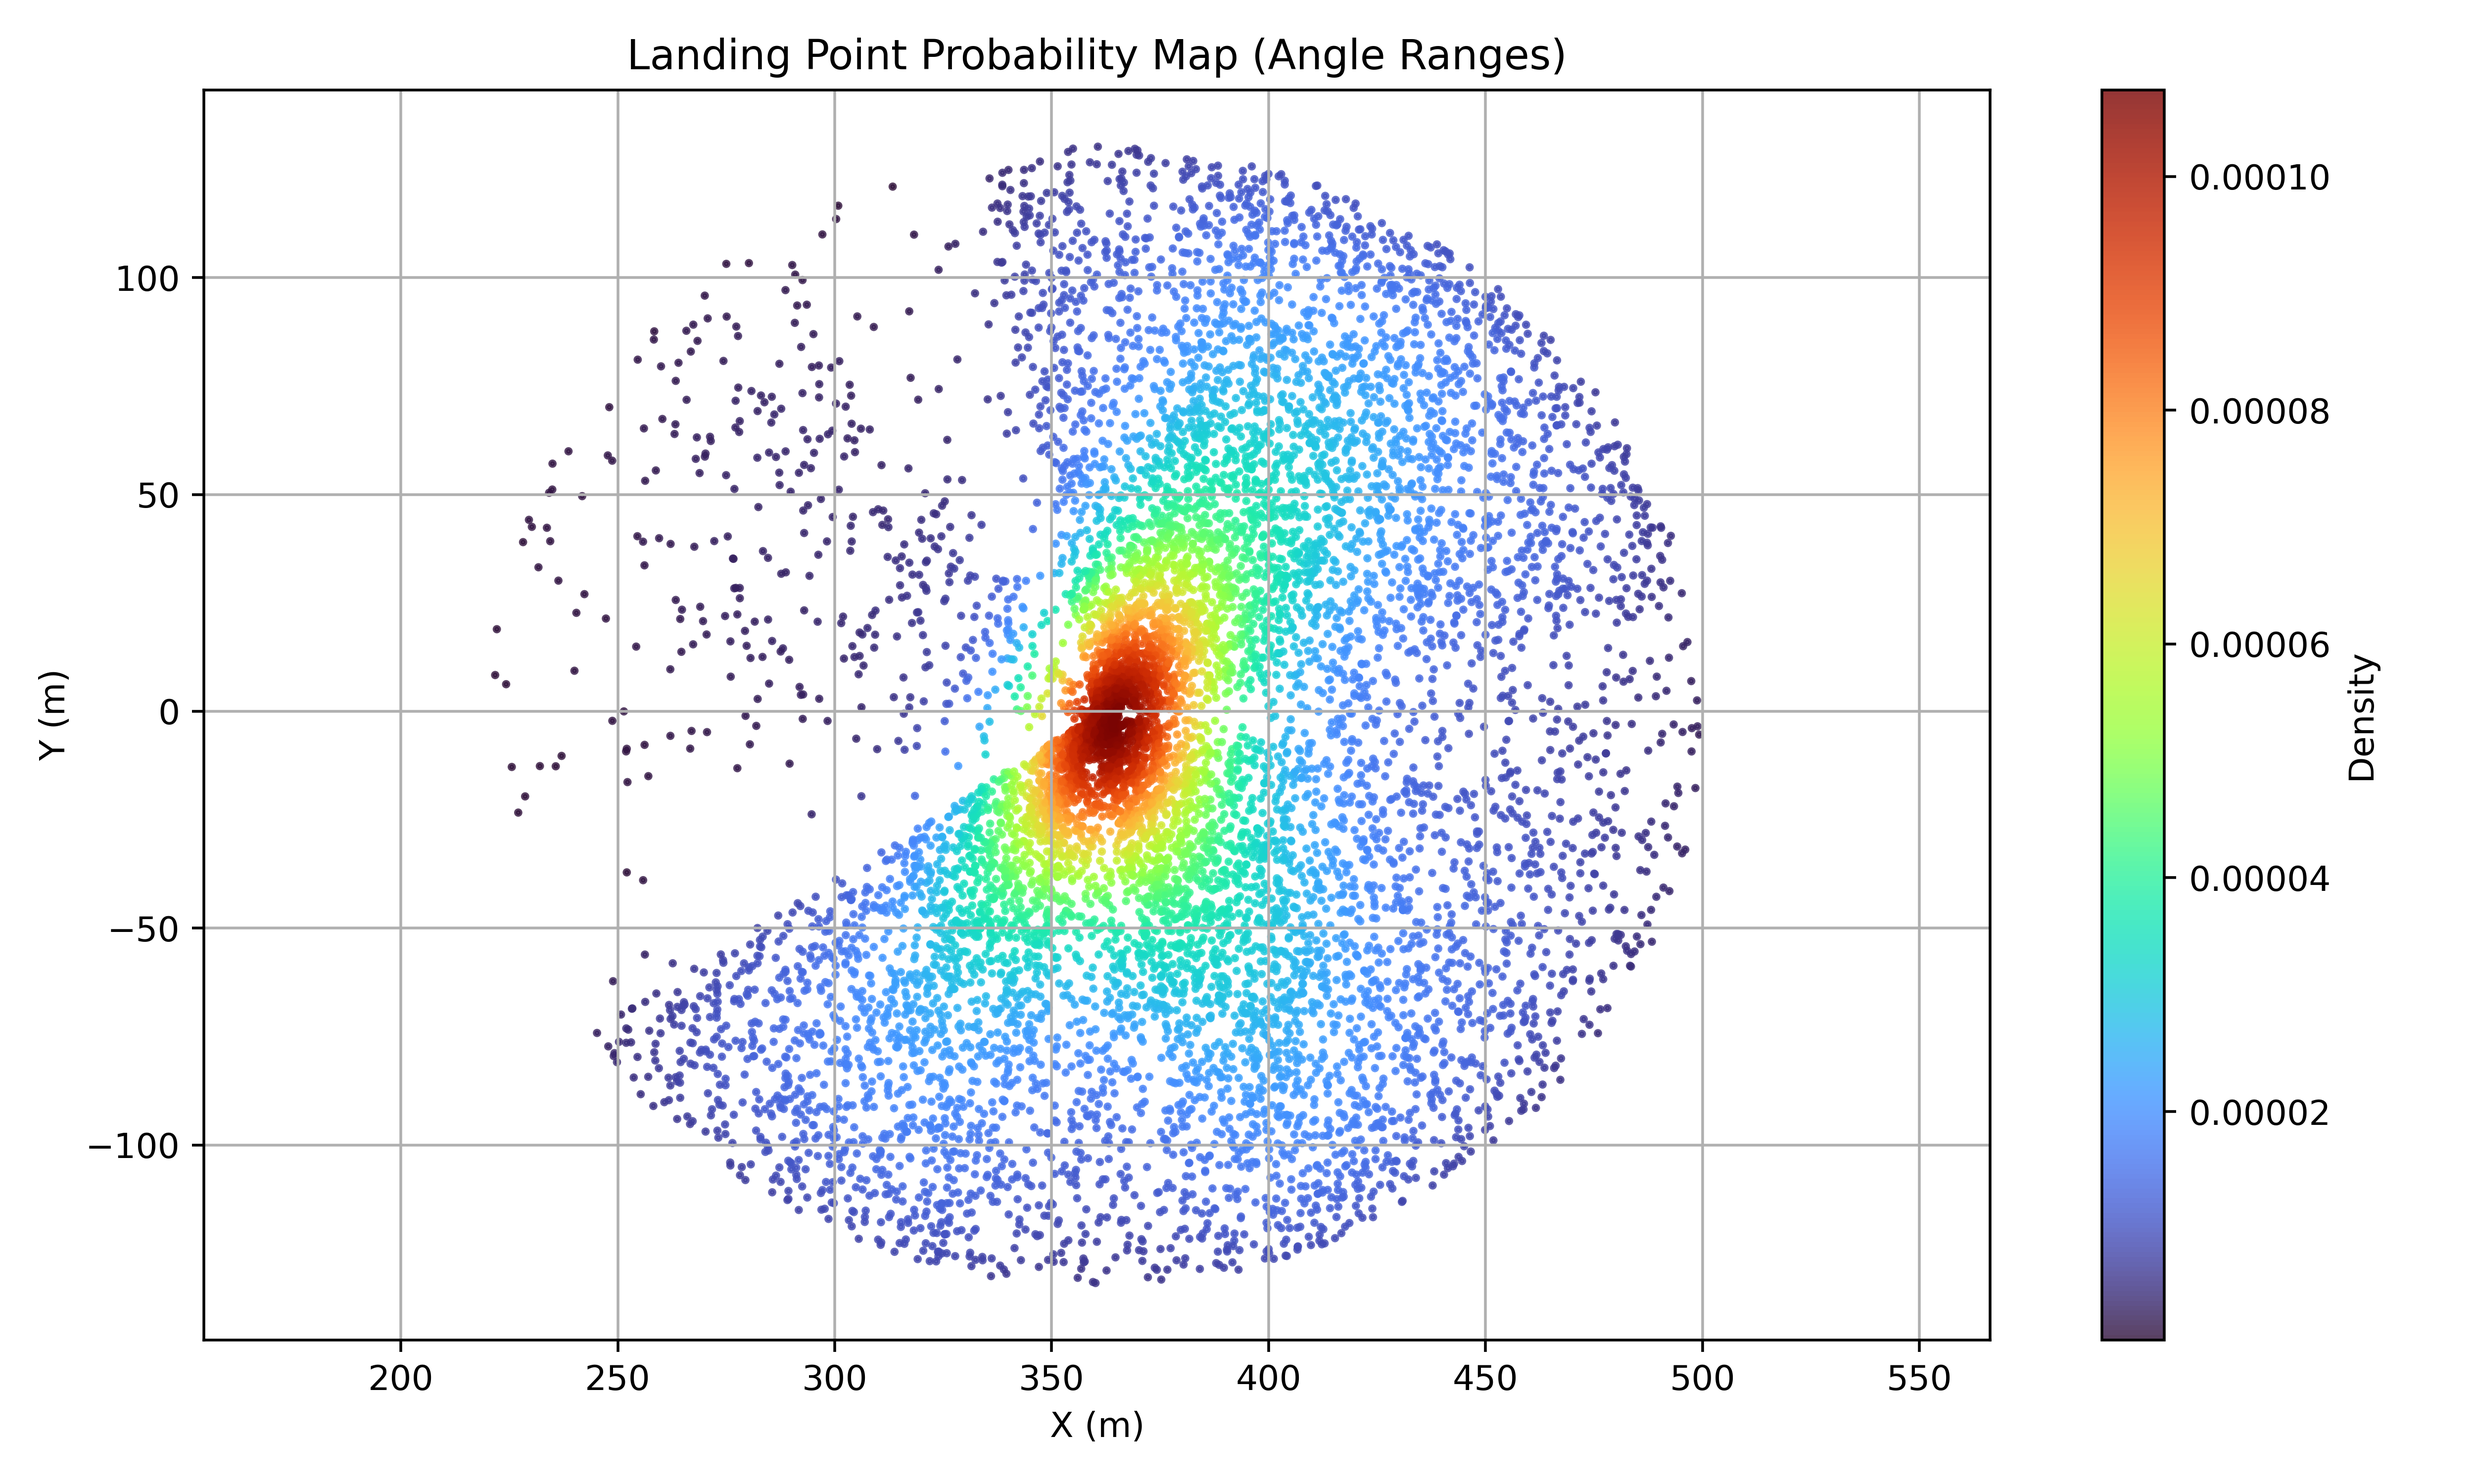
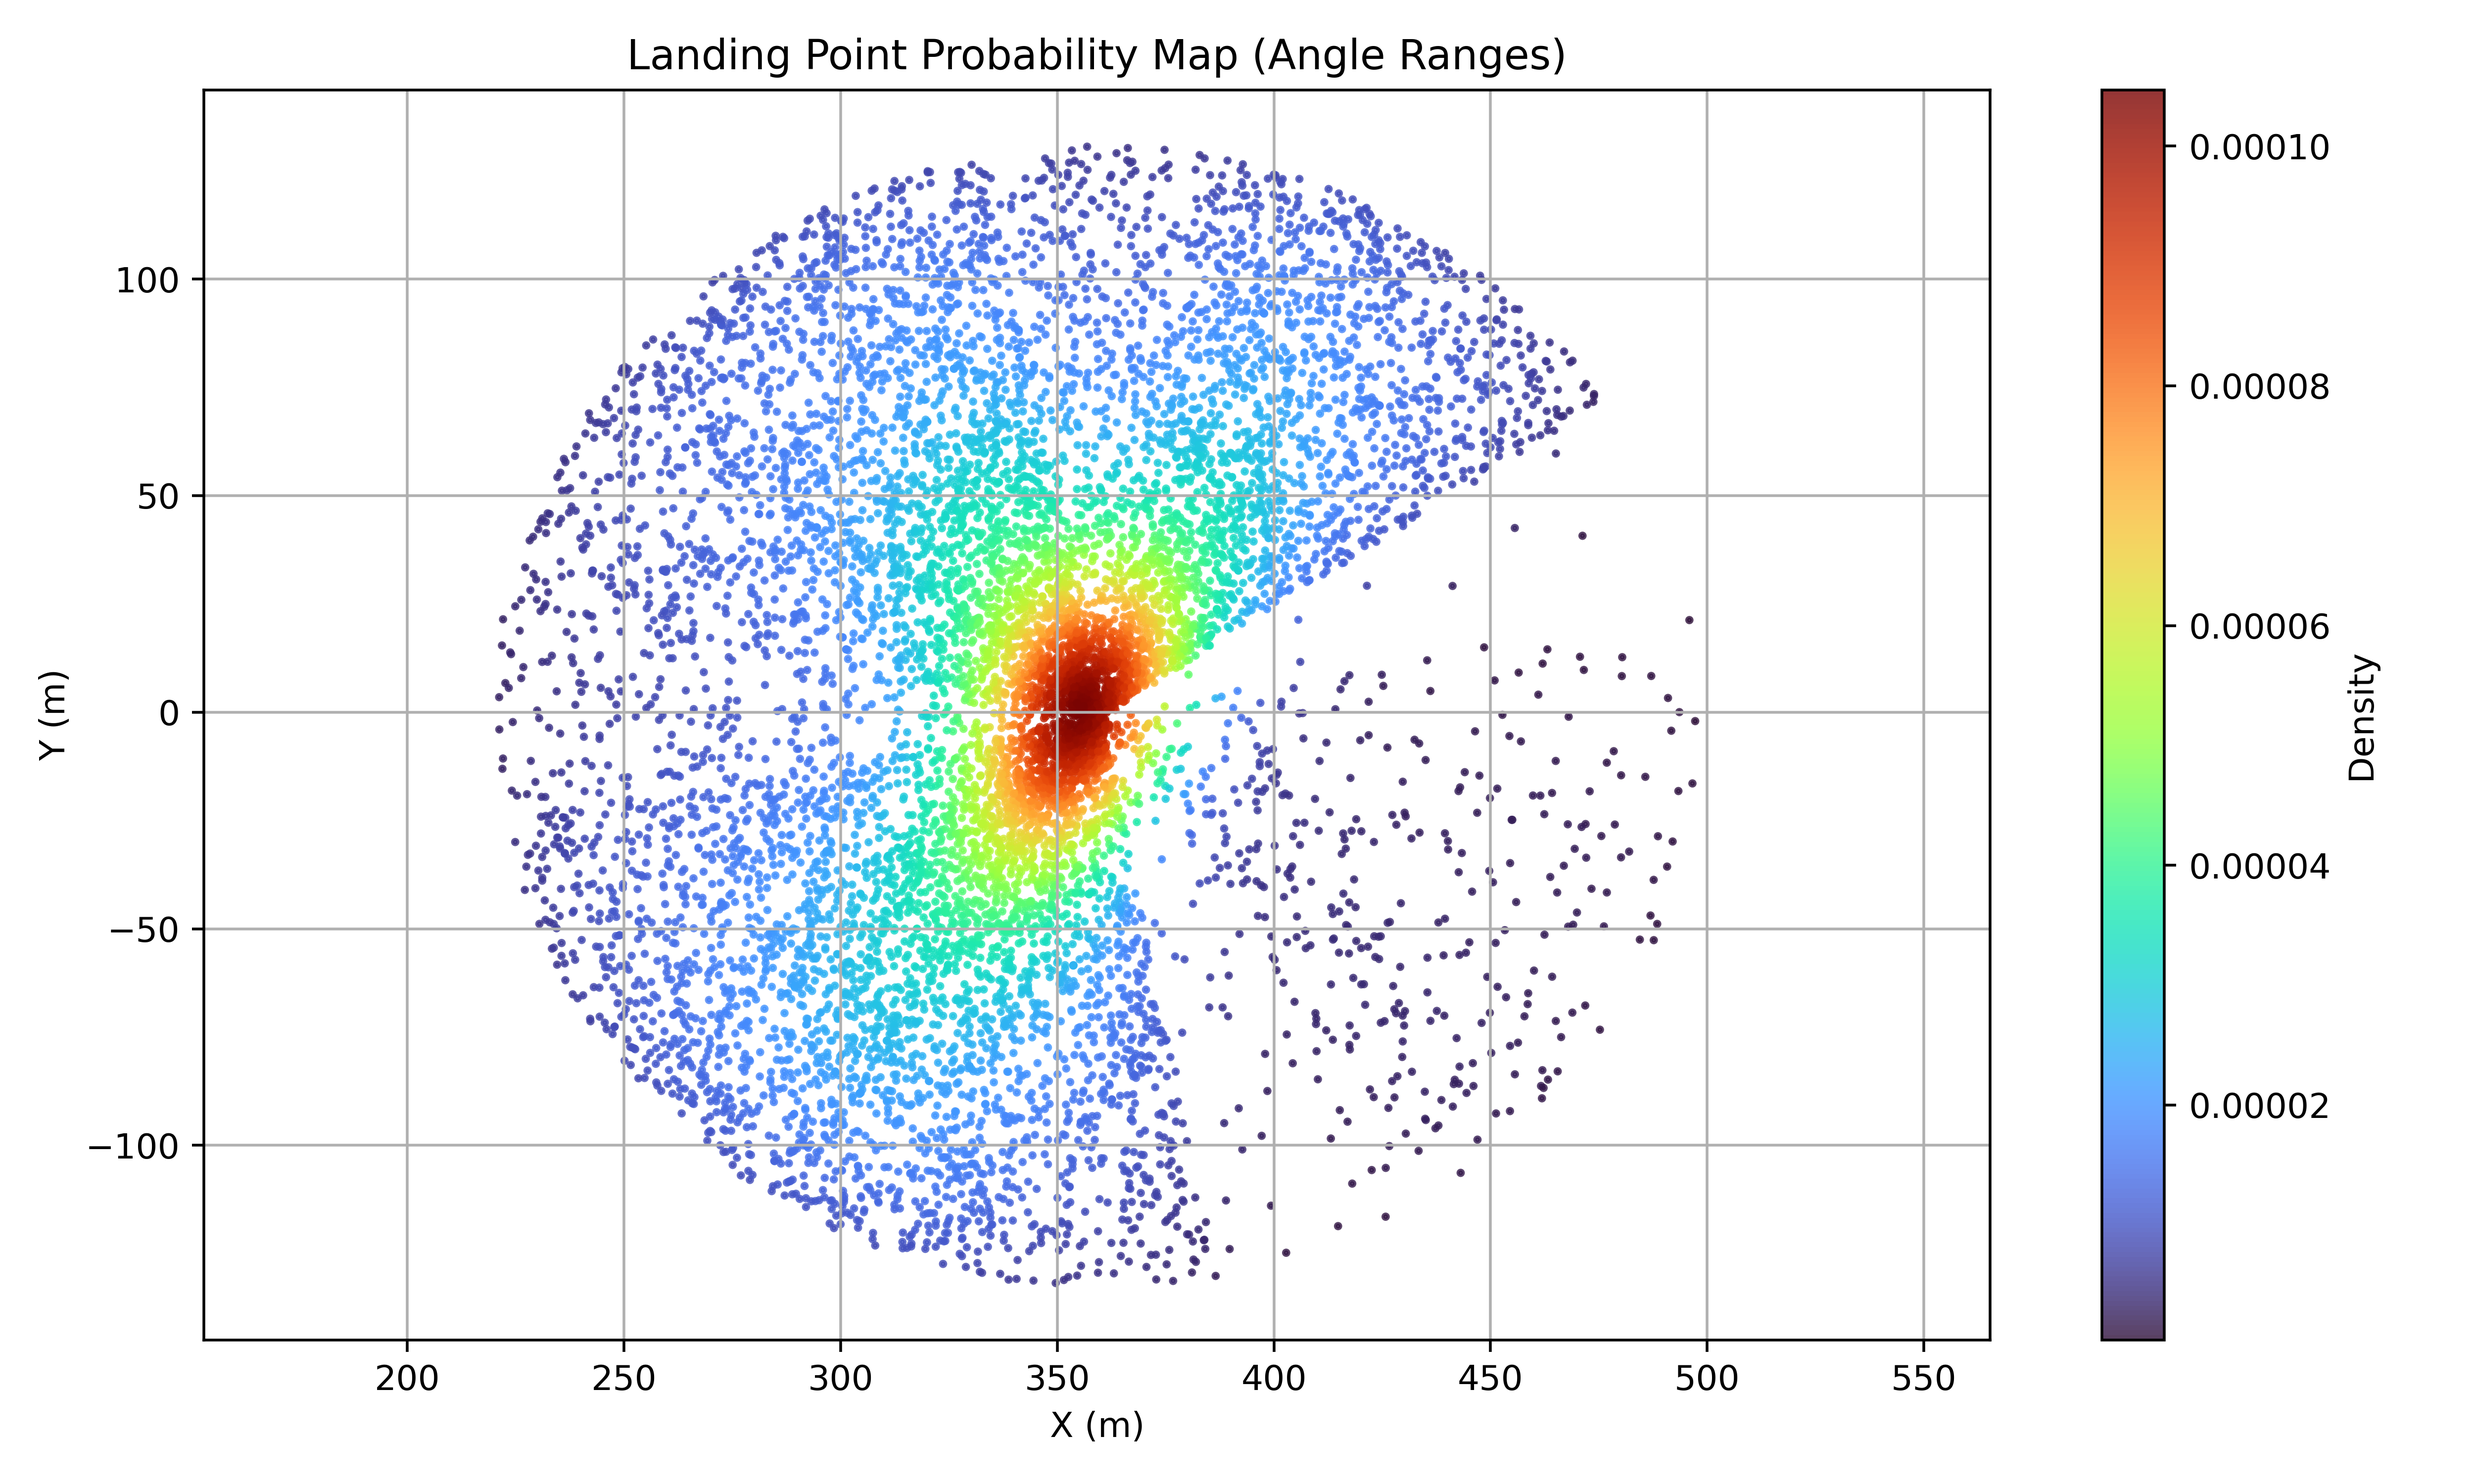
update

diff --git a/Program/Land_Point_Sim/Rate.py b/Program/Land_Point_Sim/Rate.py
@@ -60,10 +60,10 @@ for i in tqdm(range(N)):
     else:
         angle_deg = np.random.uniform(low, high)
 
-    theta = np.radians(angle_deg)
+    theta = np.radians(270 - angle_deg)
 
-    dx = (35 * s * np.sin(theta) + 360) 
-    dy = (32.9 * s * np.cos(theta) - 1)
+    dx = (35 * s * np.cos(theta) + 360) 
+    dy = (32.9 * s * np.sin(theta) - 1)
 
     xs.append(dx)
     ys.append(dy)
